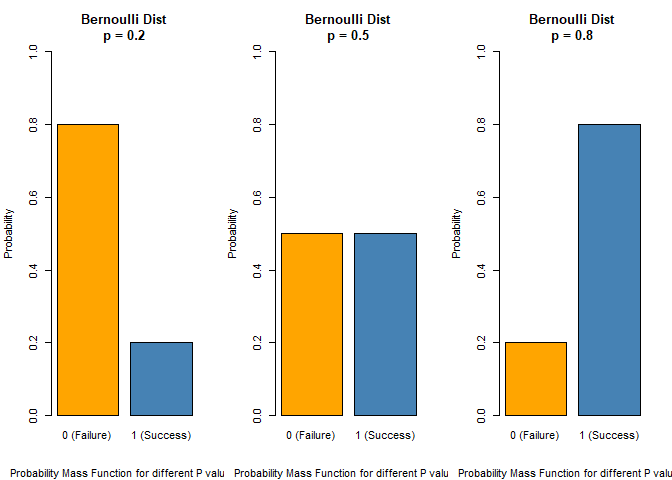
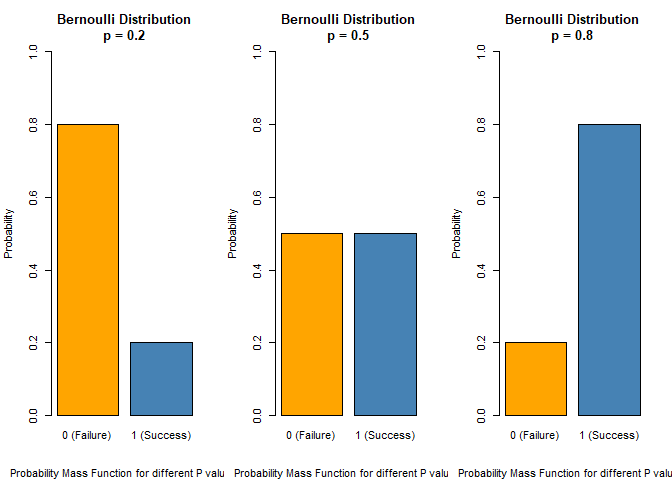
Bern dis updated

Changed region(s): [[0.75, 0.0312, 0.9688, 0.0625], [0.4062, 0.0312, 0.625, 0.0625], [0.0625, 0.0312, 0.2812, 0.0625]]

diff --git a/chapters/Probability-Distribution/Bernoulli-Distribution.md b/chapters/Probability-Distribution/Bernoulli-Distribution.md
@@ -176,7 +176,37 @@ class="math inline"><em>σ</em><sup>2</sup> = <em>p</em>(1 − <em>p</em
 
 ## Bernoulli Distribution Plot
 
+    # Probability of success
+    p <- 0.3
+
+    # Possible outcomes and their probabilities
+    x <- c(0, 1)
+    prob <- c(1 - p, p)
+
+    # Plot
+    barplot(prob, names.arg = x,
+            col = c("orange", "steelblue"),
+            main = "Bernoulli Distribution (p = 0.3)",
+            xlab = "Outcome", ylab = "Probability")
+
 ![](Bernoulli-Distribution_files/figure-markdown_strict/unnamed-chunk-1-1.png)
+
+    # Set up layout for 3 plots side-by-side
+    par(mfrow = c(1, 3))
+
+    # Define values of p
+    p_values <- c(0.2, 0.5, 0.8)
+
+    # Generate and plot for each p
+    for (p in p_values) {
+      barplot(c(1 - p, p),
+              names.arg = c("0 (Failure)", "1 (Success)"),
+              col = c("orange", "steelblue"),
+              main = paste("Bernoulli Distribution\np =", p),
+              sub = "Probability Mass Function for different P values",
+              ylim = c(0, 1),
+              ylab = "Probability")
+    }
 
 ![](Bernoulli-Distribution_files/figure-markdown_strict/unnamed-chunk-2-1.png)
 
@@ -198,9 +228,23 @@ Here, each graph shows a different Bernoulli distribution.
 
 #### Simulation of Multiple Bernoulli Trials
 
+    # Simulate 100 Bernoulli trials with p = 0.3
+    set.seed(123)
+    sim_data <- rbinom(n = 100, size = 1, prob = 0.3)
+
+    # Frequency table
+    table(sim_data)
+
     ## sim_data
     ##  0  1 
     ## 71 29
+
+    # Plot the proportion of outcomes
+    barplot(table(sim_data)/length(sim_data),
+            names.arg = c("Failure (0)", "Success (1)"),
+            col = c("pink", "skyblue"),
+            main = "Simulation of 100 Bernoulli Trials",
+            ylab = "Proportion")
 
 ![](Bernoulli-Distribution_files/figure-markdown_strict/unnamed-chunk-3-1.png)
 
@@ -260,7 +304,7 @@ clicked/not clicked**, etc.
 Bernoulli distribution provides the foundation for:
 
 -   **Target variable** (label) in binary classification is modeled as
-    ***y* ∼ *B**e**r**n**o**u**l**l**i*(*p*)**
+    *y* ∼ *B**e**r**n**o**u**l**l**i*(*p*)
 -   **Predicted probabilities** (from models like logistic regression)
     estimate the success probability *p*
 
@@ -389,6 +433,128 @@ success/failure).
 
     -   It’s not flexible enough to accommodate uncertain or fuzzy
         outcomes.
+
+------------------------------------------------------------------------
+
+#### Comparison of Common Discrete Distributions
+
+<table>
+<colgroup>
+<col style="width: 7%" />
+<col style="width: 30%" />
+<col style="width: 8%" />
+<col style="width: 24%" />
+<col style="width: 28%" />
+</colgroup>
+<thead>
+<tr>
+<th>Distribution</th>
+<th>Definition</th>
+<th>Possible Outcomes</th>
+<th>Parameters</th>
+<th>Real-Life Example</th>
+</tr>
+</thead>
+<tbody>
+<tr>
+<td><strong>Bernoulli</strong></td>
+<td>Single trial with two outcomes</td>
+<td>0 or 1</td>
+<td><span class="math inline"><em>p</em></span>: probability of
+success</td>
+<td>Tossing a coin once (Heads = 1, Tails = 0)</td>
+</tr>
+<tr>
+<td><strong>Binomial</strong></td>
+<td>Number of successes in <strong>n</strong> independent Bernoulli
+trials</td>
+<td>0 to <span class="math inline"><em>n</em></span></td>
+<td><span class="math inline"><em>n</em></span>: number of trials, <span
+class="math inline"><em>p</em></span>: success probability</td>
+<td>Tossing a coin 10 times: how many heads?</td>
+</tr>
+<tr>
+<td><strong>Geometric</strong></td>
+<td>Number of trials <strong>until first success</strong></td>
+<td>1, 2, 3, …</td>
+<td><span class="math inline"><em>p</em></span>: probability of
+success</td>
+<td>How many times do you flip a coin until you get Heads?</td>
+</tr>
+<tr>
+<td><strong>Categorical</strong></td>
+<td>One trial with <strong>more than two possible outcomes</strong></td>
+<td>1, 2, …, k</td>
+<td>Vector of probabilities <span
+class="math inline">(<em>p</em><sub>1</sub>, <em>p</em><sub>2</sub>, …, <em>p</em><sub><em>k</em></sub>)</span></td>
+<td>Rolling a dice (1–6) once</td>
+</tr>
+</tbody>
+</table>
+
+------------------------------------------------------------------------
+
+#### Intuitions
+
+🔹 Bernoulli (binary decision) &gt; Are you **present (1)** or **absent
+(0)** in class today?
+
+    # One Bernoulli trial with p = 0.7
+    rbinom(n = 1, size = 1, prob = 0.7)
+
+    ## [1] 1
+
+🔹 Binomial (repeat Bernoulli) &gt; In **5 coin tosses**, how many times
+do you get **Heads**?
+
+    # 10 coin tosses (p = 0.5), how many heads?
+    rbinom(n = 1, size = 10, prob = 0.5)
+
+    ## [1] 8
+
+🔹 Geometric (wait for success) &gt; **How many attempts** until you
+pass a driving test?
+
+    # Number of tosses until first head (p = 0.3)
+    rgeom(n = 1, prob = 0.3) + 1  # R counts failures before success, so +1 for trials
+
+    ## [1] 1
+
+🔹 Categorical (multi-choice) &gt; Which **color** is picked from a bag:
+**Red**, **Green**, or **Blue**?
+
+    # Roll a fair 6-sided die
+    sample(1:6, size = 1, prob = rep(1/6, 6))
+
+    ## [1] 4
+
+#### Visualization of different distributions
+
+    par(mfrow = c(2, 2))
+
+    # Bernoulli
+    barplot(c(0.3, 0.7), names.arg = c(0, 1), col = c("orange", "skyblue"),
+            main = "Bernoulli (p = 0.7)", ylab = "Probability")
+
+    # Binomial (n = 10, p = 0.5)
+    x_binom <- 0:10
+    y_binom <- dbinom(x_binom, size = 10, prob = 0.5)
+    barplot(y_binom, names.arg = x_binom, col = "steelblue",
+            main = "Binomial (n=10, p=0.5)", ylab = "Probability")
+
+    # Geometric (p = 0.3)
+    x_geom <- 1:10
+    y_geom <- dgeom(x_geom - 1, prob = 0.3)
+    barplot(y_geom, names.arg = x_geom, col = "lightgreen",
+            main = "Geometric (p = 0.3)", ylab = "Probability")
+
+    # Categorical (1 to 6)
+    x_cat <- 1:6
+    y_cat <- rep(1/6, 6)
+    barplot(y_cat, names.arg = x_cat, col = rainbow(6),
+            main = "Categorical (Fair Die)", ylab = "Probability")
+
+![](Bernoulli-Distribution_files/figure-markdown_strict/unnamed-chunk-9-1.png)
 
 ------------------------------------------------------------------------
 
